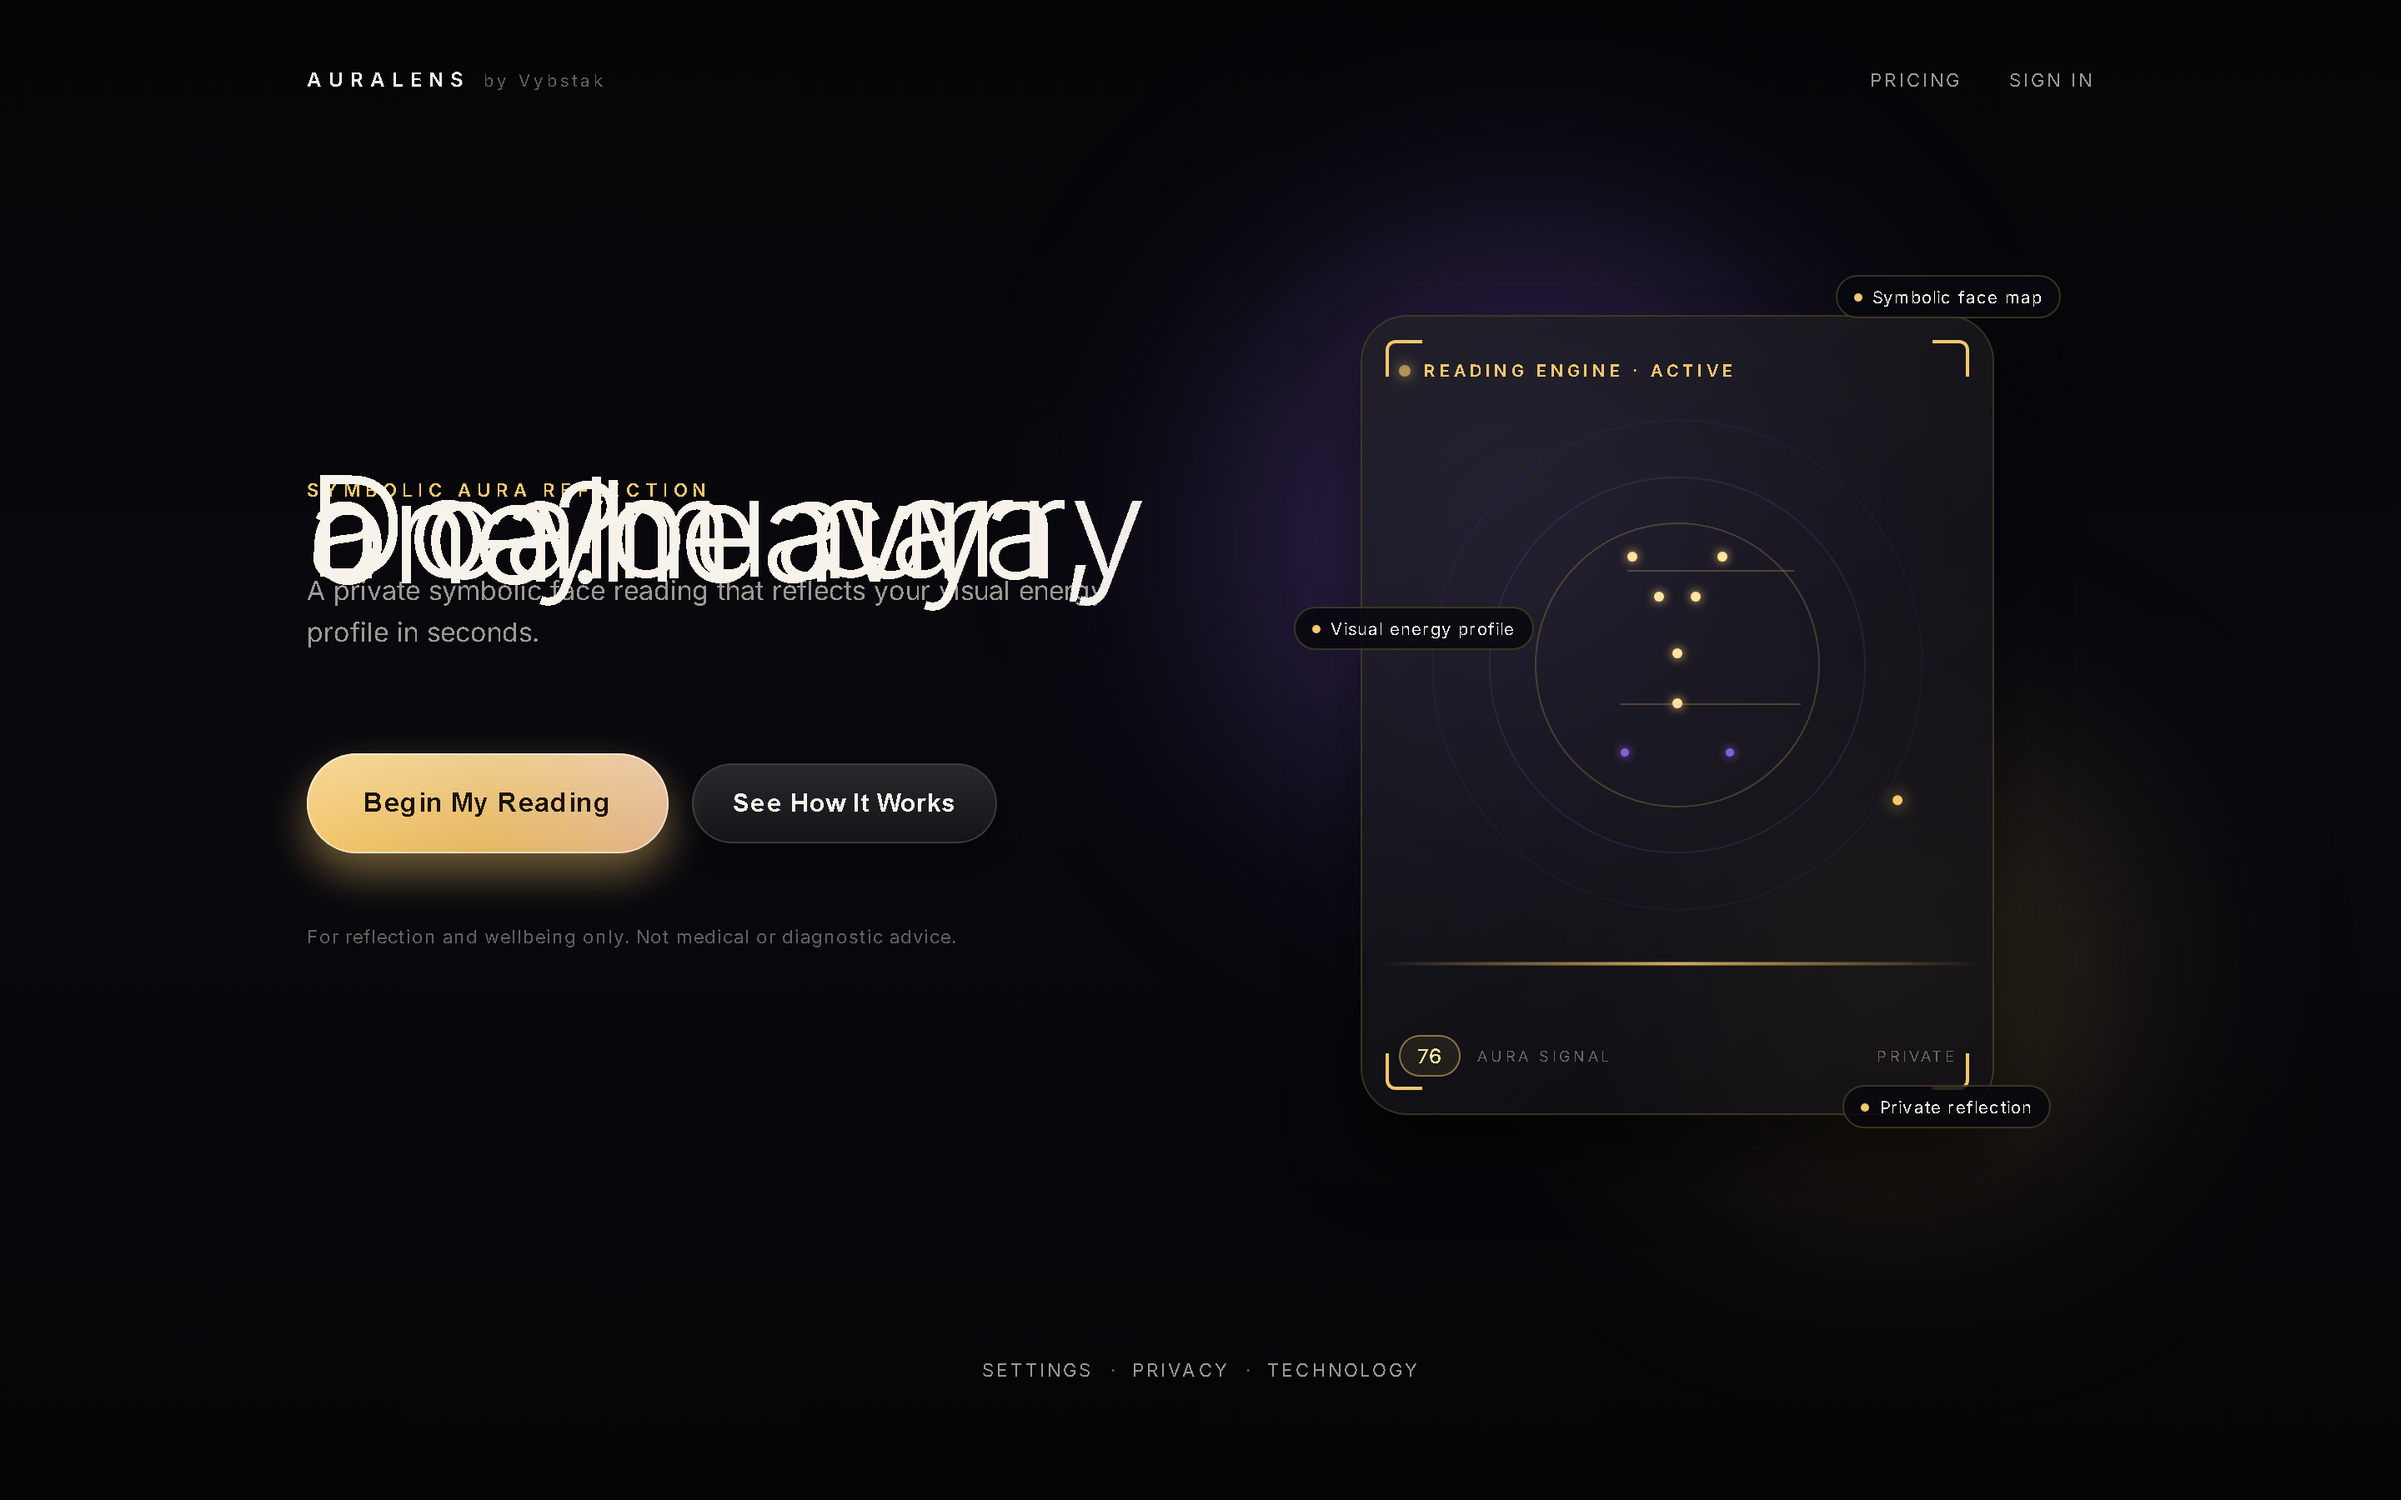
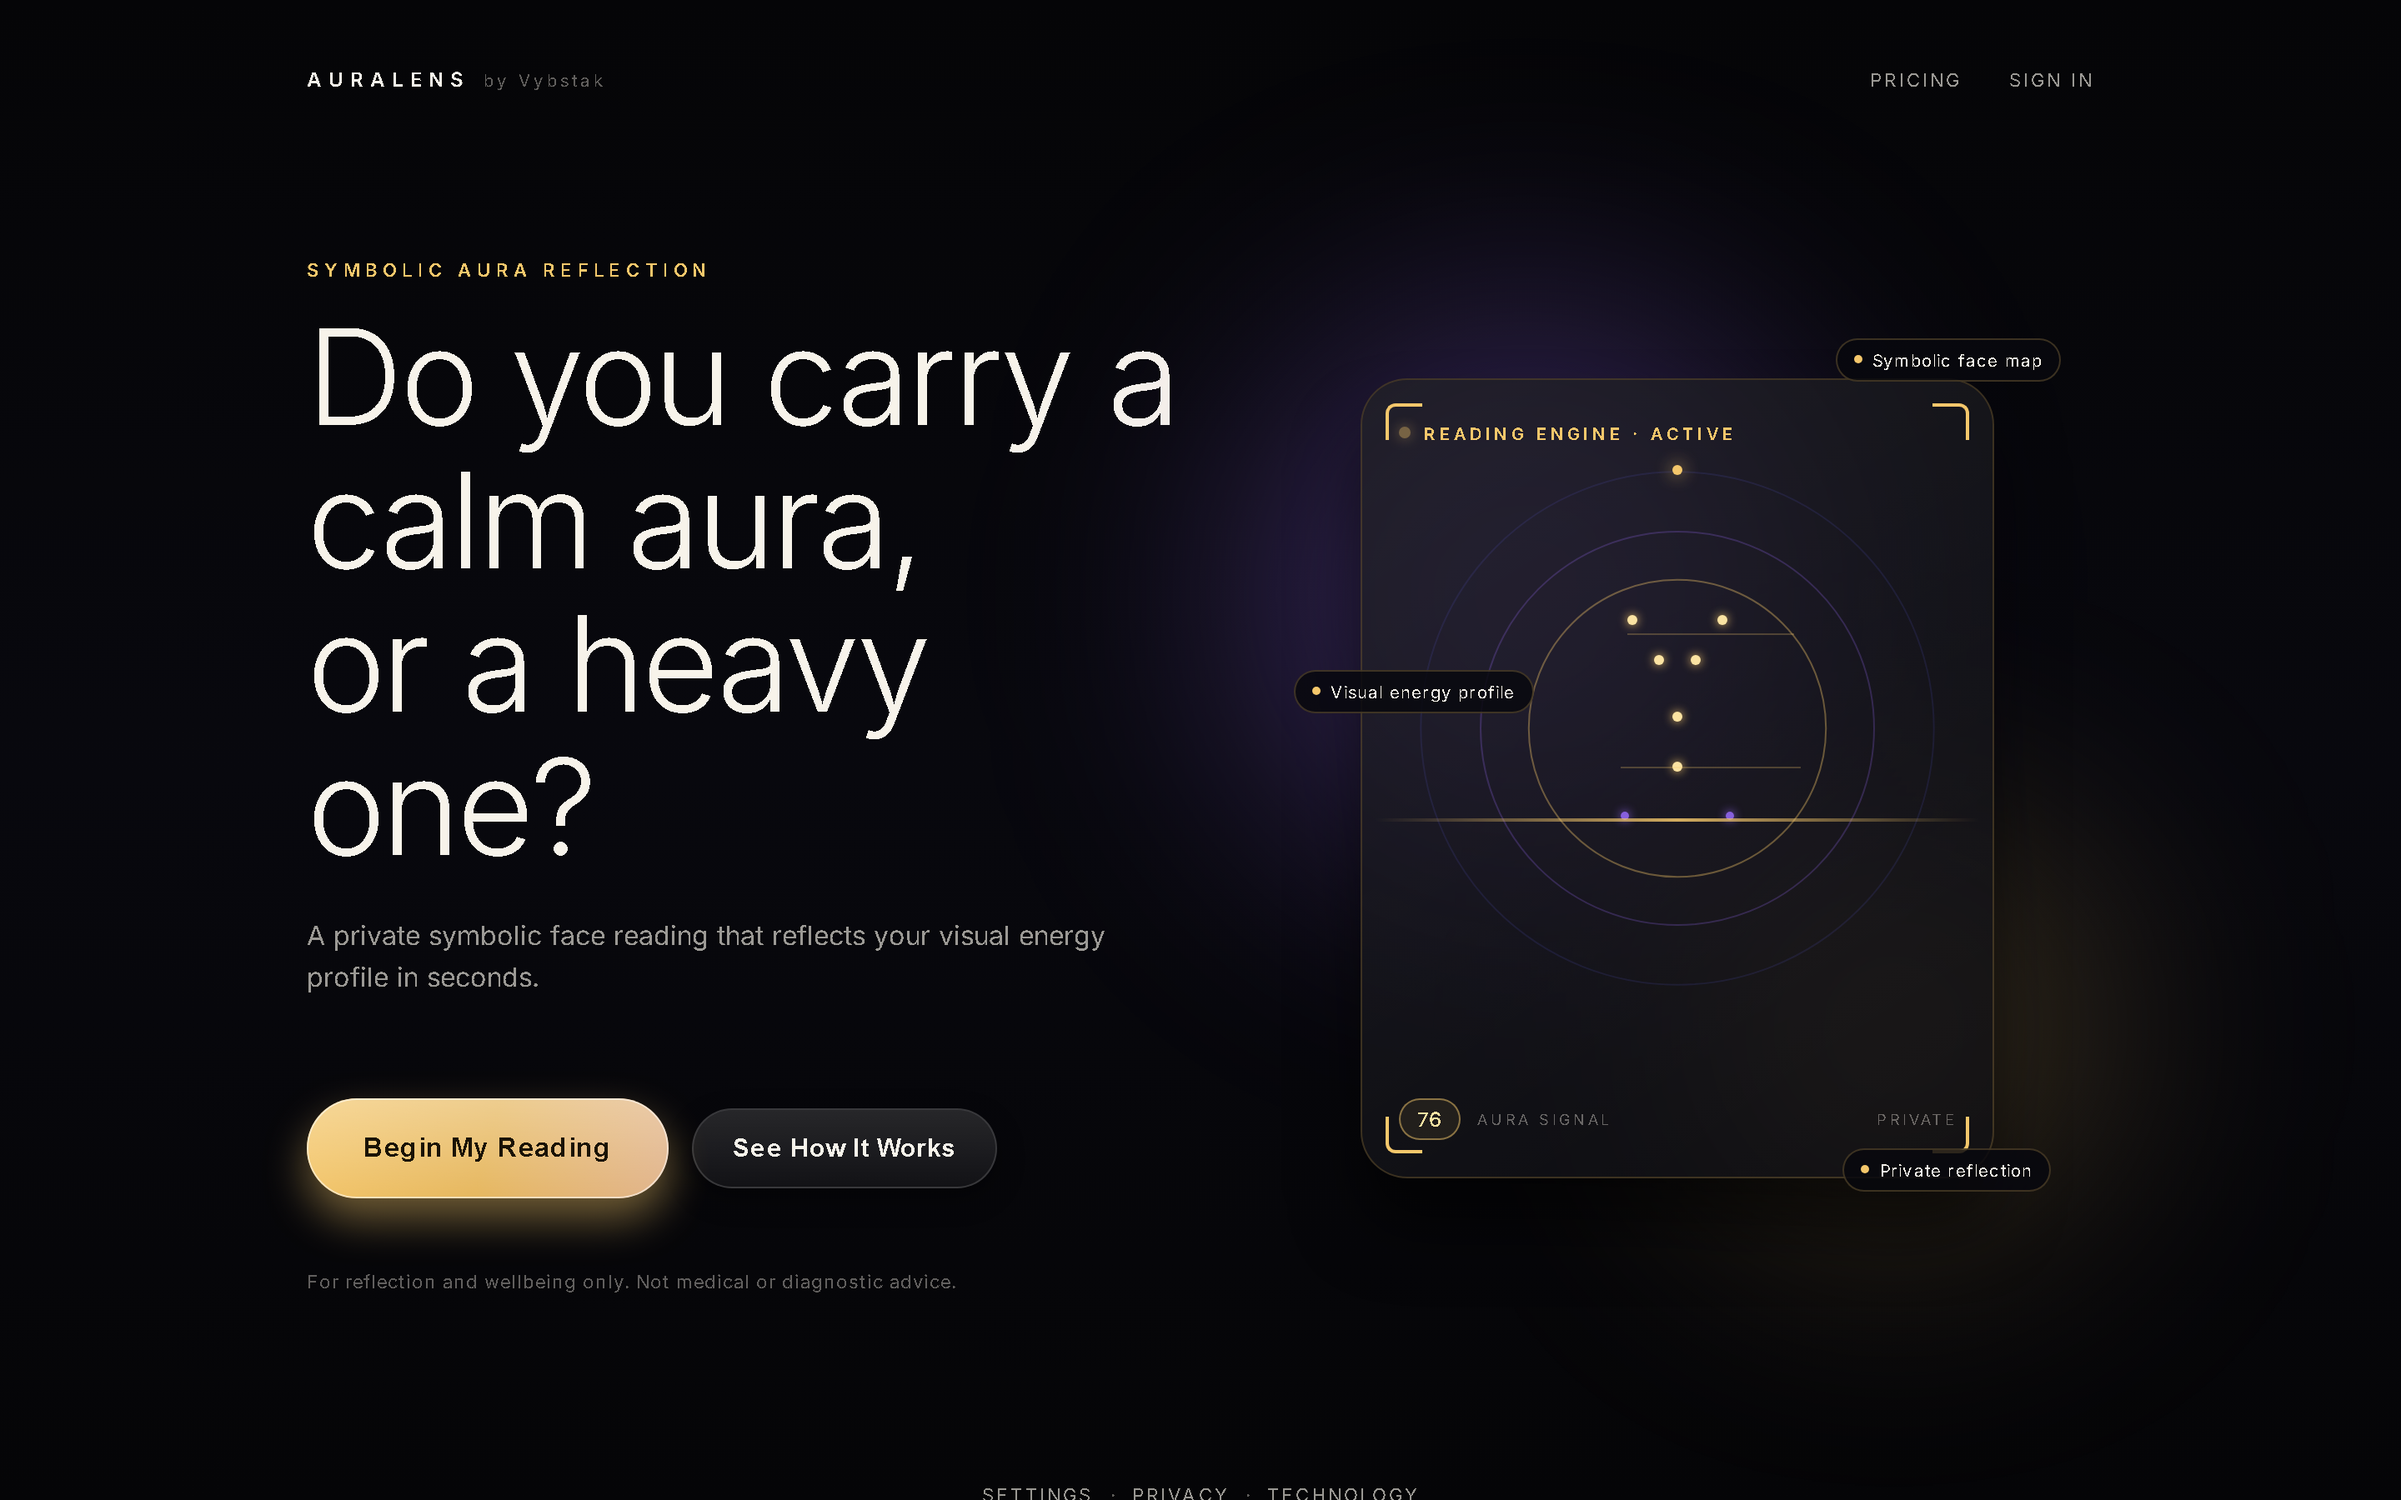
Tighter hero title size — 60px wide / 44px narrow so each line fits in the column

diff --git a/app/index.tsx b/app/index.tsx
@@ -194,14 +194,14 @@ const styles = StyleSheet.create({
   // Each title line is its own <Text> with explicit numeric lineHeight, so
   // react-native-web doesn't collapse them onto each other on web.
   titleWide: {
-    fontSize: 80,
-    lineHeight: 86,
-    letterSpacing: -2,
+    fontSize: 60,
+    lineHeight: 66,
+    letterSpacing: -1.4,
   },
   titleNarrow: {
-    fontSize: 52,
-    lineHeight: 58,
-    letterSpacing: -1.2,
+    fontSize: 44,
+    lineHeight: 50,
+    letterSpacing: -1,
   },
   sub: {
     marginTop: 22,
